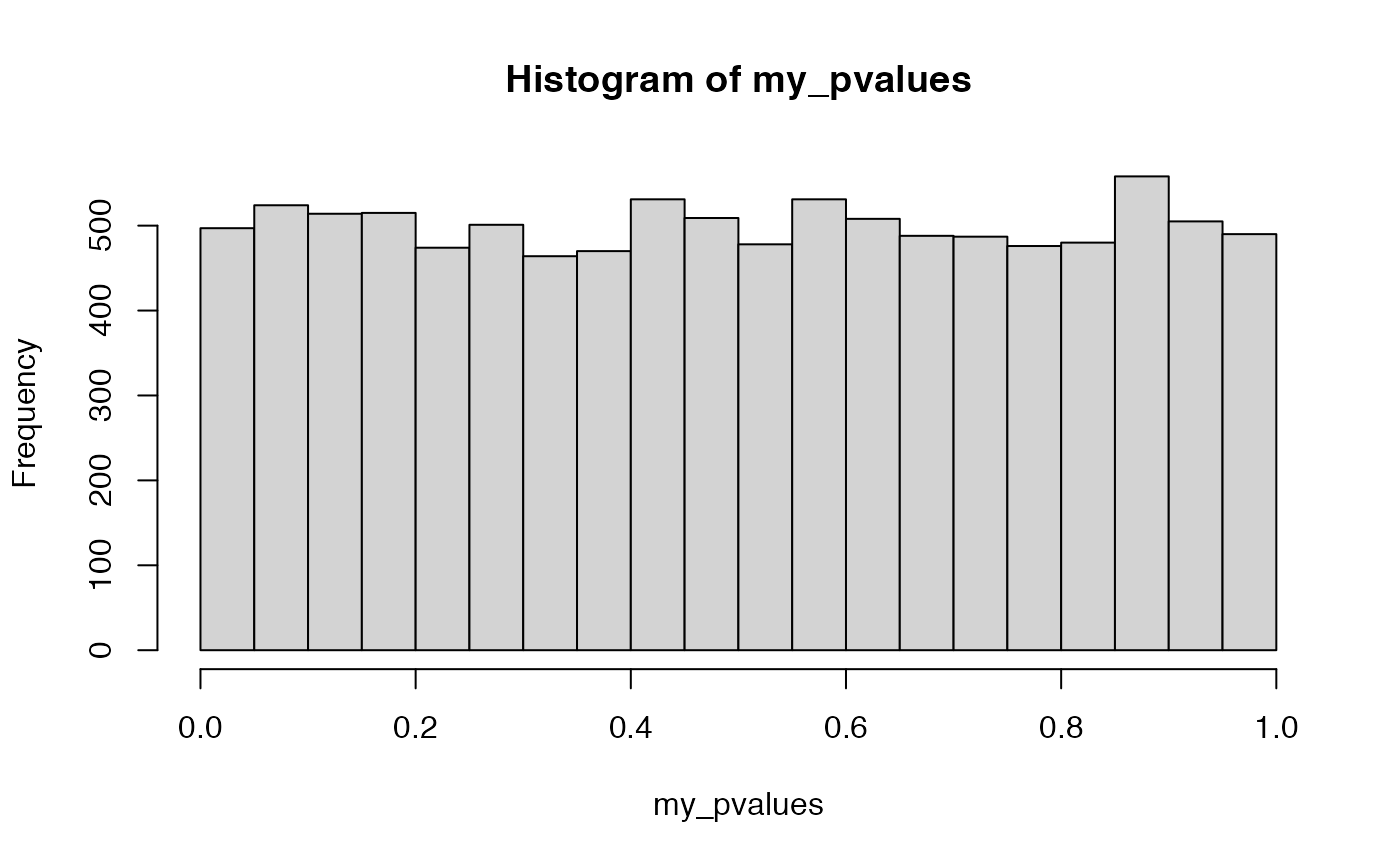
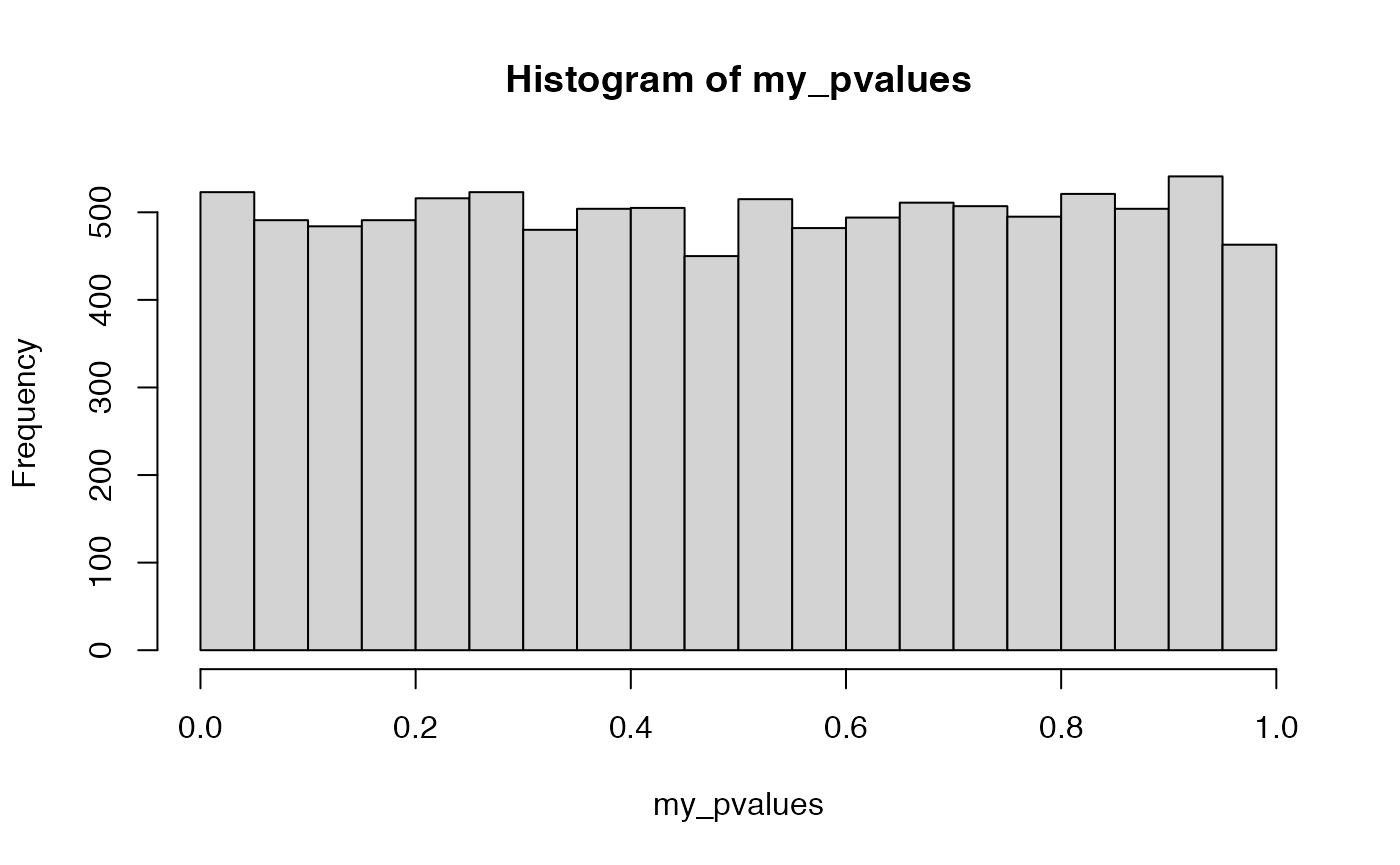
.

diff --git a/docs/articles/Lab5.html b/docs/articles/Lab5.html
@@ -44,7 +44,7 @@
     <a class="dropdown-item" href="../articles/Lab4.html">Lab4</a>
     <a class="dropdown-item" href="../articles/Lab5.html">Lab5</a>
     <a class="dropdown-item" href="../articles/Lab6.html">Lab6</a>
-    <a class="dropdown-item" href="../articles/Lab7.html">Lab7.Rmd</a>
+    <a class="dropdown-item" href="../articles/Lab7.html">Lab7</a>
     <a class="dropdown-item" href="../articles/Lab8.html">Lab8</a>
     <a class="dropdown-item" href="../articles/PkgdownTips/Rbasics.html">Rbasics</a>
   </div>
@@ -153,9 +153,9 @@
 <span class="va">aov.out</span> <span class="op">&lt;-</span> <span class="fu"><a href="https://rdrr.io/r/stats/aov.html" class="external-link">aov</a></span><span class="op">(</span><span class="va">DV</span> <span class="op">~</span> <span class="va">IV</span>, data <span class="op">=</span> <span class="va">alternative_data</span><span class="op">)</span>
 <span class="va">simulated_F</span> <span class="op">&lt;-</span> <span class="fu"><a href="https://rdrr.io/r/base/summary.html" class="external-link">summary</a></span><span class="op">(</span><span class="va">aov.out</span><span class="op">)</span><span class="op">[[</span><span class="fl">1</span><span class="op">]</span><span class="op">]</span><span class="op">$</span><span class="va">`F value`</span><span class="op">[</span><span class="fl">1</span><span class="op">]</span>
 <span class="fu"><a href="https://rdrr.io/r/base/summary.html" class="external-link">summary</a></span><span class="op">(</span><span class="va">aov.out</span><span class="op">)</span></code></pre></div>
-<pre><code><span class="co">##             Df Sum Sq Mean Sq F value Pr(&gt;F)  </span>
-<span class="co">## IV           3  5.206  1.7353   2.262 0.0979 .</span>
-<span class="co">## Residuals   36 27.623  0.7673                 </span>
+<pre><code><span class="co">##             Df Sum Sq Mean Sq F value  Pr(&gt;F)   </span>
+<span class="co">## IV           3  18.48   6.159   4.656 0.00752 **</span>
+<span class="co">## Residuals   36  47.62   1.323                   </span>
 <span class="co">## ---</span>
 <span class="co">## Signif. codes:  0 '***' 0.001 '**' 0.01 '*' 0.05 '.' 0.1 ' ' 1</span></code></pre>
 <div class="sourceCode" id="cb7"><pre class="downlit sourceCode r">
@@ -169,7 +169,7 @@
 <span class="co">## </span>
 <span class="co">## Parameter | Eta2 |       95% CI</span>
 <span class="co">## -------------------------------</span>
-<span class="co">## IV        | 0.16 | [0.00, 1.00]</span>
+<span class="co">## IV        | 0.28 | [0.06, 1.00]</span>
 <span class="co">## </span>
 <span class="co">## - One-sided CIs: upper bound fixed at (1).</span></code></pre>
 <div class="sourceCode" id="cb12"><pre class="downlit sourceCode r">
@@ -198,7 +198,7 @@
 <span class="op">}</span>
 
 <span class="fu">run_simulation</span><span class="op">(</span><span class="op">)</span></code></pre></div>
-<pre><code><span class="co">## [1] 0.2758478</span></code></pre>
+<pre><code><span class="co">## [1] 0.05271666</span></code></pre>
 <div class="sourceCode" id="cb14"><pre class="downlit sourceCode r">
 <code class="sourceCode R"><span class="fu"><a href="https://easystats.github.io/effectsize/reference/eta_squared.html" class="external-link">eta_squared</a></span><span class="op">(</span><span class="va">aov.out</span><span class="op">)</span></code></pre></div>
 <pre><code><span class="co">## For one-way between subjects designs, partial eta squared is equivalent to eta squared.</span>
@@ -207,7 +207,7 @@
 <span class="co">## </span>
 <span class="co">## Parameter | Eta2 |       95% CI</span>
 <span class="co">## -------------------------------</span>
-<span class="co">## IV        | 0.16 | [0.00, 1.00]</span>
+<span class="co">## IV        | 0.28 | [0.06, 1.00]</span>
 <span class="co">## </span>
 <span class="co">## - One-sided CIs: upper bound fixed at (1).</span></code></pre>
 <div class="sourceCode" id="cb17"><pre class="downlit sourceCode r">
@@ -218,7 +218,7 @@
 <span class="co">## </span>
 <span class="co">## Parameter | Eta2 |       95% CI</span>
 <span class="co">## -------------------------------</span>
-<span class="co">## IV        | 0.16 | [0.00, 1.00]</span>
+<span class="co">## IV        | 0.28 | [0.06, 1.00]</span>
 <span class="co">## </span>
 <span class="co">## - One-sided CIs: upper bound fixed at (1).</span></code></pre>
 <div class="sourceCode" id="cb20"><pre class="downlit sourceCode r">
@@ -233,26 +233,26 @@
 <pre><code><span class="co">##  [1] 1 1 1 1 1 1 1 1 1 1</span></code></pre>
 <div class="sourceCode" id="cb24"><pre class="downlit sourceCode r">
 <code class="sourceCode R"><span class="fu"><a href="https://rdrr.io/r/base/lapply.html" class="external-link">replicate</a></span><span class="op">(</span><span class="fl">100</span>,<span class="fu">run_simulation</span><span class="op">(</span><span class="op">)</span><span class="op">)</span></code></pre></div>
-<pre><code><span class="co">##   [1] 0.24421024 0.37504494 0.33093034 0.14465994 0.19326708 0.20301824</span>
-<span class="co">##   [7] 0.20165989 0.23649277 0.38466059 0.19420539 0.26749249 0.10792348</span>
-<span class="co">##  [13] 0.34917175 0.18519563 0.33429332 0.17311682 0.23978293 0.18998875</span>
-<span class="co">##  [19] 0.36008072 0.25745779 0.17964205 0.32560286 0.19730107 0.21232857</span>
-<span class="co">##  [25] 0.18895872 0.13473611 0.33337412 0.22364303 0.06674903 0.10360670</span>
-<span class="co">##  [31] 0.53840261 0.20911623 0.24521563 0.42434045 0.32280151 0.27422647</span>
-<span class="co">##  [37] 0.21525867 0.25117602 0.18354900 0.21537176 0.25300804 0.29680058</span>
-<span class="co">##  [43] 0.10710810 0.28430762 0.28955864 0.50875929 0.26802933 0.31142202</span>
-<span class="co">##  [49] 0.10038838 0.15006433 0.33585483 0.26928837 0.18303763 0.45763137</span>
-<span class="co">##  [55] 0.18495870 0.24927969 0.26795862 0.16399372 0.21920723 0.22325909</span>
-<span class="co">##  [61] 0.22294735 0.15628838 0.33192426 0.32979332 0.24912238 0.38169110</span>
-<span class="co">##  [67] 0.26974516 0.38402015 0.22523520 0.12377434 0.29382357 0.29909978</span>
-<span class="co">##  [73] 0.29890225 0.30661849 0.35174102 0.04587685 0.28098496 0.24277134</span>
-<span class="co">##  [79] 0.28505605 0.35877707 0.29983659 0.17828987 0.28356295 0.17949320</span>
-<span class="co">##  [85] 0.17585425 0.05342157 0.12969724 0.19667824 0.25933688 0.17864700</span>
-<span class="co">##  [91] 0.33276804 0.27346620 0.25586260 0.18869400 0.13662457 0.33320908</span>
-<span class="co">##  [97] 0.28612402 0.21389844 0.20165937 0.05747528</span></code></pre>
+<pre><code><span class="co">##   [1] 0.17015603 0.18773220 0.42726501 0.28093687 0.17674978 0.11391648</span>
+<span class="co">##   [7] 0.24767668 0.15635491 0.33984935 0.10204347 0.32634458 0.11724371</span>
+<span class="co">##  [13] 0.18757942 0.12116523 0.35575449 0.11884291 0.30676469 0.03286688</span>
+<span class="co">##  [19] 0.14088015 0.15465524 0.32315415 0.16696549 0.26117850 0.15665073</span>
+<span class="co">##  [25] 0.19336097 0.29915925 0.19402486 0.33436870 0.32678932 0.08000135</span>
+<span class="co">##  [31] 0.10524278 0.15445403 0.13535706 0.26031442 0.11042392 0.29899019</span>
+<span class="co">##  [37] 0.14255487 0.26555598 0.15557815 0.20843423 0.19187679 0.05988152</span>
+<span class="co">##  [43] 0.33895440 0.17000161 0.24149932 0.29729388 0.30159990 0.12031738</span>
+<span class="co">##  [49] 0.13094847 0.33734449 0.04374464 0.16570554 0.19230117 0.24596594</span>
+<span class="co">##  [55] 0.50644010 0.46552930 0.20249412 0.23671004 0.26549806 0.35940169</span>
+<span class="co">##  [61] 0.07975613 0.24285756 0.35599335 0.34683722 0.19572402 0.31575350</span>
+<span class="co">##  [67] 0.15064675 0.20722298 0.08625227 0.10971202 0.14889961 0.20926377</span>
+<span class="co">##  [73] 0.25109508 0.08490813 0.23005480 0.31071230 0.12698512 0.24685004</span>
+<span class="co">##  [79] 0.26963933 0.26275440 0.26381584 0.42804380 0.19947345 0.12889568</span>
+<span class="co">##  [85] 0.28490129 0.08163238 0.32372378 0.18757506 0.16542291 0.25132487</span>
+<span class="co">##  [91] 0.35296993 0.13690046 0.06227923 0.17160744 0.30663288 0.16235635</span>
+<span class="co">##  [97] 0.44836013 0.23112234 0.13162731 0.15877549</span></code></pre>
 <div class="sourceCode" id="cb26"><pre class="downlit sourceCode r">
 <code class="sourceCode R"><span class="fu"><a href="https://rdrr.io/r/base/mean.html" class="external-link">mean</a></span><span class="op">(</span><span class="fu"><a href="https://rdrr.io/r/base/lapply.html" class="external-link">replicate</a></span><span class="op">(</span><span class="fl">100</span>,<span class="fu">run_simulation</span><span class="op">(</span><span class="op">)</span><span class="op">)</span><span class="op">)</span></code></pre></div>
-<pre><code><span class="co">## [1] 0.2221745</span></code></pre>
+<pre><code><span class="co">## [1] 0.2525275</span></code></pre>
 <div class="sourceCode" id="cb28"><pre class="downlit sourceCode r">
 <code class="sourceCode R"><span class="va">run_simulation</span> <span class="op">&lt;-</span> <span class="kw">function</span><span class="op">(</span><span class="op">)</span><span class="op">{</span>
   
@@ -282,57 +282,57 @@
 <span class="op">}</span>
 
 <span class="fu">run_simulation</span><span class="op">(</span><span class="op">)</span></code></pre></div>
-<pre><code><span class="co">## [1] 0.02731811 0.22189349</span></code></pre>
+<pre><code><span class="co">## [1] 0.44075703 0.07124011</span></code></pre>
 <div class="sourceCode" id="cb30"><pre class="downlit sourceCode r">
 <code class="sourceCode R"><span class="fu"><a href="https://rdrr.io/r/base/lapply.html" class="external-link">replicate</a></span><span class="op">(</span><span class="fl">100</span>,<span class="fu">run_simulation</span><span class="op">(</span><span class="op">)</span><span class="op">)</span></code></pre></div>
-<pre><code><span class="co">##             [,1]       [,2]       [,3]       [,4]      [,5]       [,6]</span>
-<span class="co">## [1,] 0.002255739 0.01075468 0.71490525 0.42028015 0.1013850 0.40803104</span>
-<span class="co">## [2,] 0.328729282 0.26409798 0.03658537 0.07435897 0.1567316 0.07628004</span>
-<span class="co">##              [,7]       [,8]       [,9]      [,10]     [,11]      [,12]</span>
-<span class="co">## [1,] 0.0007865807 0.39598869 0.49785060 0.59648209 0.2381086 0.60126773</span>
-<span class="co">## [2,] 0.3686354379 0.07821229 0.06307308 0.05035971 0.1093502 0.04977742</span>
-<span class="co">##           [,13]      [,14]     [,15]     [,16]      [,17]      [,18]      [,19]</span>
-<span class="co">## [1,] 0.67162650 0.05070814 0.0291092 0.6059307 0.49042584 0.90166519 0.58968144</span>
-<span class="co">## [2,] 0.04148784 0.19210851 0.2189055 0.0492126 0.06409588 0.01568803 0.05119187</span>
-<span class="co">##           [,20]      [,21]      [,22]      [,23]     [,24]      [,25]</span>
-<span class="co">## [1,] 0.78583909 0.01164217 0.57417589 0.01175538 0.1162893 0.09519445</span>
-<span class="co">## [2,] 0.02872777 0.26062246 0.05311077 0.26019691 0.1494357 0.16004813</span>
-<span class="co">##           [,26]       [,27]      [,28]      [,29]      [,30]      [,31]</span>
-<span class="co">## [1,] 0.54158062 0.009414822 0.75205321 0.35541385 0.28097050 0.28173872</span>
-<span class="co">## [2,] 0.05725191 0.269885057 0.03245348 0.08508015 0.09952102 0.09935668</span>
-<span class="co">##          [,32]     [,33]     [,34]      [,35]     [,36]     [,37]      [,38]</span>
-<span class="co">## [1,] 0.0044232 0.2219641 0.0643448 0.35108655 0.2441430 0.1947463 0.49671701</span>
-<span class="co">## [2,] 0.3017196 0.1134454 0.1802073 0.08584869 0.1078802 0.1209677 0.06322854</span>
-<span class="co">##            [,39]      [,40]     [,41]     [,42]       [,43]      [,44]</span>
-<span class="co">## [1,] 0.973440345 0.28384999 0.8973075 0.2256055 0.970602536 0.40218306</span>
-<span class="co">## [2,] 0.006148941 0.09890696 0.0162037 0.1125000 0.006599514 0.07721281</span>
-<span class="co">##           [,45]      [,46]      [,47]      [,48]      [,49]      [,50]</span>
-<span class="co">## [1,] 0.79892844 0.08875477 0.03567142 0.63995802 0.70891013 0.04647115</span>
-<span class="co">## [2,] 0.02728636 0.16371038 0.20923521 0.04516129 0.03725782 0.19640565</span>
-<span class="co">##           [,51]     [,52]     [,53]      [,54]     [,55]     [,56]      [,57]</span>
-<span class="co">## [1,] 0.44798731 0.7633939 0.5994358 0.45506490 0.2535711 0.6213559 0.92189172</span>
-<span class="co">## [2,] 0.07016473 0.0312009 0.0500000 0.06912442 0.1056440 0.0473613 0.01323706</span>
-<span class="co">##           [,58]     [,59]      [,60]      [,61]      [,62]      [,63]</span>
-<span class="co">## [1,] 0.59011838 0.1875257 0.54101744 0.01705334 0.60335637 0.01918045</span>
-<span class="co">## [2,] 0.05113824 0.1231156 0.05732484 0.24360190 0.04952412 0.23826087</span>
-<span class="co">##           [,64]      [,65]      [,66]      [,67]      [,68]     [,69]</span>
-<span class="co">## [1,] 0.53532743 0.51989806 0.47487608 0.87943568 0.72758609 0.5020448</span>
-<span class="co">## [2,] 0.05806452 0.06009684 0.06627393 0.01828411 0.03516874 0.0625000</span>
-<span class="co">##           [,70]     [,71]      [,72]     [,73]      [,74]      [,75]     [,76]</span>
-<span class="co">## [1,] 0.31374196 0.1058185 0.35522329 0.1295616 0.45901901 0.37171024 0.3002973</span>
-<span class="co">## [2,] 0.09281961 0.1544662 0.08511384 0.1436100 0.06854839 0.08225108 0.0954955</span>
-<span class="co">##           [,77]      [,78]      [,79]     [,80]      [,81]      [,82]     [,83]</span>
-<span class="co">## [1,] 0.06843374 0.83440260 0.09247181 0.1268940 0.08833903 0.30144411 0.4357005</span>
-<span class="co">## [2,] 0.17708620 0.02336449 0.16156847 0.1447368 0.16395494 0.09526344 0.0720000</span>
-<span class="co">##           [,84]     [,85]     [,86]      [,87]     [,88]      [,89]      [,90]</span>
-<span class="co">## [1,] 0.00442394 0.2227599 0.3941432 0.59121590 0.1291553 0.44640720 0.39323345</span>
-<span class="co">## [2,] 0.30171278 0.1132376 0.0785124 0.05100362 0.1437803 0.07039864 0.07866075</span>
-<span class="co">##           [,91]      [,92]      [,93]      [,94]      [,95]      [,96]</span>
-<span class="co">## [1,] 0.04605745 0.50060007 0.44497328 0.67257285 0.35554218 0.42291247</span>
-<span class="co">## [2,] 0.19684418 0.06269702 0.07061144 0.04137931 0.08505747 0.07395172</span>
-<span class="co">##          [,97]      [,98]      [,99]    [,100]</span>
-<span class="co">## [1,] 0.1201842 0.74457286 0.31968500 0.1724629</span>
-<span class="co">## [2,] 0.1476671 0.03328149 0.09166667 0.1278383</span></code></pre>
+<pre><code><span class="co">##           [,1]      [,2]       [,3]       [,4]       [,5]      [,6]       [,7]</span>
+<span class="co">## [1,] 0.7506851 0.1020202 0.36310194 0.30925983 0.94556952 0.2660465 0.81485339</span>
+<span class="co">## [2,] 0.0326048 0.1564016 0.08373294 0.09370103 0.01019462 0.1027905 0.02553007</span>
+<span class="co">##           [,8]        [,9]      [,10]       [,11]     [,12]     [,13]</span>
+<span class="co">## [1,] 0.6863993 0.963412765 0.77670199 0.005057387 0.0443743 0.2174682</span>
+<span class="co">## [2,] 0.0398010 0.007692308 0.02973396 0.296195652 0.1986663 0.1146311</span>
+<span class="co">##           [,14]      [,15]      [,16]     [,17]      [,18]      [,19]</span>
+<span class="co">## [1,] 0.73742738 0.04380435 0.67006846 0.2397857 0.37851618 0.88991656</span>
+<span class="co">## [2,] 0.03407407 0.19929763 0.04166667 0.1089385 0.08109855 0.01707027</span>
+<span class="co">##           [,20]     [,21]     [,22]      [,23]     [,24]      [,25]       [,26]</span>
+<span class="co">## [1,] 0.51213034 0.1205986 0.2637618 0.65669095 0.3317457 0.02304386 0.957687221</span>
+<span class="co">## [2,] 0.06113537 0.1474820 0.1033046 0.04320988 0.0893796 0.22982496 0.008522727</span>
+<span class="co">##           [,27]      [,28]      [,29]      [,30]      [,31]      [,32]</span>
+<span class="co">## [1,] 0.03737794 0.43765093 0.30942566 0.03479965 0.57631752 0.83607206</span>
+<span class="co">## [2,] 0.20698925 0.07170611 0.09366824 0.21042084 0.05284389 0.02317881</span>
+<span class="co">##           [,33]      [,34]      [,35]      [,36]     [,37]      [,38]</span>
+<span class="co">## [1,] 0.06540646 0.51425509 0.77187310 0.72039453 0.2212016 0.63324043</span>
+<span class="co">## [2,] 0.17938001 0.06085024 0.03026597 0.03597122 0.1136450 0.04595186</span>
+<span class="co">##           [,39]      [,40]      [,41]      [,42]      [,43]      [,44]</span>
+<span class="co">## [1,] 0.51201346 0.04317814 0.31245859 0.44433000 0.67504691 0.08169726</span>
+<span class="co">## [2,] 0.06115108 0.20000000 0.09307093 0.07070707 0.04109589 0.16800955</span>
+<span class="co">##           [,45]     [,46]      [,47]     [,48]    [,49]     [,50]      [,51]</span>
+<span class="co">## [1,] 0.32468374 0.1662541 0.61178063 0.2430273 0.177564 0.1986342 0.46072328</span>
+<span class="co">## [2,] 0.09071038 0.1298905 0.04850746 0.1081497 0.126200 0.1198397 0.06830123</span>
+<span class="co">##          [,52]      [,53]      [,54]      [,55]      [,56]     [,57]      [,58]</span>
+<span class="co">## [1,] 0.1079685 0.59180292 0.72431922 0.02784204 0.03063215 0.1980776 0.63324043</span>
+<span class="co">## [2,] 0.1533981 0.05093168 0.03553299 0.22100122 0.21649485 0.1200000 0.04595186</span>
+<span class="co">##           [,59]      [,60]      [,61]     [,62]      [,63]        [,64]</span>
+<span class="co">## [1,] 0.66716298 0.80956647 0.64504372 0.8161358 0.34447036 1.000000e+00</span>
+<span class="co">## [2,] 0.04200064 0.02611367 0.04456557 0.0253884 0.08703853 1.455267e-31</span>
+<span class="co">##           [,65]      [,66]     [,67]      [,68]      [,69]      [,70]</span>
+<span class="co">## [1,] 0.76744905 0.03347455 0.1274691 0.71330478 0.41046812 0.58447228</span>
+<span class="co">## [2,] 0.03075363 0.21227621 0.1444921 0.03676471 0.07589435 0.05183312</span>
+<span class="co">##           [,71]      [,72]      [,73]      [,74]      [,75]     [,76]</span>
+<span class="co">## [1,] 0.47675867 0.07106454 0.04460514 0.53050364 0.64250612 0.8095145</span>
+<span class="co">## [2,] 0.06600756 0.17516630 0.19841270 0.05869565 0.04486252 0.0261194</span>
+<span class="co">##           [,77]      [,78]     [,79]      [,80]      [,81]      [,82]</span>
+<span class="co">## [1,] 0.03815156 0.95377099 0.1834935 0.92439348 0.83607206 0.41901710</span>
+<span class="co">## [2,] 0.20600188 0.00907441 0.1243464 0.01292597 0.02317881 0.07455507</span>
+<span class="co">##           [,83]     [,84]      [,85]      [,86]     [,87]      [,88]      [,89]</span>
+<span class="co">## [1,] 0.46655618 0.0291277 0.92542518 0.32363984 0.1463501 0.74718617 0.76037610</span>
+<span class="co">## [2,] 0.06746032 0.2188755 0.01279707 0.09090909 0.1369565 0.03299204 0.03153394</span>
+<span class="co">##          [,90]     [,91]      [,92]      [,93]       [,94]      [,95]    [,96]</span>
+<span class="co">## [1,] 0.1919464 0.2728262 0.04082861 0.40399257 0.008912696 0.64324393 0.774287</span>
+<span class="co">## [2,] 0.1217923 0.1012867 0.20272109 0.07692308 0.272252676 0.04477612 0.030000</span>
+<span class="co">##           [,97]     [,98]      [,99]      [,100]</span>
+<span class="co">## [1,] 0.09683544 0.2729912 0.07711431 0.996360022</span>
+<span class="co">## [2,] 0.15915056 0.1012505 0.17098446 0.001584786</span></code></pre>
   </main>
 </div>
 

diff --git a/docs/articles/Lab7.html b/docs/articles/Lab7.html
@@ -6,12 +6,12 @@
 <meta http-equiv="X-UA-Compatible" content="IE=edge">
 <meta name="viewport" content="width=device-width, initial-scale=1, shrink-to-fit=no">
 <meta name="description" content="psyc7709">
-<title>Lab7.Rmd • psyc7709</title>
+<title>Lab7 • psyc7709</title>
 <script src="../deps/jquery-3.6.0/jquery-3.6.0.min.js"></script><meta name="viewport" content="width=device-width, initial-scale=1, shrink-to-fit=no">
 <link href="../deps/bootstrap-5.1.0/bootstrap.min.css" rel="stylesheet">
 <script src="../deps/bootstrap-5.1.0/bootstrap.bundle.min.js"></script><!-- Font Awesome icons --><link rel="stylesheet" href="https://cdnjs.cloudflare.com/ajax/libs/font-awesome/5.12.1/css/all.min.css" integrity="sha256-mmgLkCYLUQbXn0B1SRqzHar6dCnv9oZFPEC1g1cwlkk=" crossorigin="anonymous">
 <link rel="stylesheet" href="https://cdnjs.cloudflare.com/ajax/libs/font-awesome/5.12.1/css/v4-shims.min.css" integrity="sha256-wZjR52fzng1pJHwx4aV2AO3yyTOXrcDW7jBpJtTwVxw=" crossorigin="anonymous">
-<!-- bootstrap-toc --><script src="https://cdn.rawgit.com/afeld/bootstrap-toc/v1.0.1/dist/bootstrap-toc.min.js"></script><!-- headroom.js --><script src="https://cdnjs.cloudflare.com/ajax/libs/headroom/0.11.0/headroom.min.js" integrity="sha256-AsUX4SJE1+yuDu5+mAVzJbuYNPHj/WroHuZ8Ir/CkE0=" crossorigin="anonymous"></script><script src="https://cdnjs.cloudflare.com/ajax/libs/headroom/0.11.0/jQuery.headroom.min.js" integrity="sha256-ZX/yNShbjqsohH1k95liqY9Gd8uOiE1S4vZc+9KQ1K4=" crossorigin="anonymous"></script><!-- clipboard.js --><script src="https://cdnjs.cloudflare.com/ajax/libs/clipboard.js/2.0.6/clipboard.min.js" integrity="sha256-inc5kl9MA1hkeYUt+EC3BhlIgyp/2jDIyBLS6k3UxPI=" crossorigin="anonymous"></script><!-- search --><script src="https://cdnjs.cloudflare.com/ajax/libs/fuse.js/6.4.6/fuse.js" integrity="sha512-zv6Ywkjyktsohkbp9bb45V6tEMoWhzFzXis+LrMehmJZZSys19Yxf1dopHx7WzIKxr5tK2dVcYmaCk2uqdjF4A==" crossorigin="anonymous"></script><script src="https://cdnjs.cloudflare.com/ajax/libs/autocomplete.js/0.38.0/autocomplete.jquery.min.js" integrity="sha512-GU9ayf+66Xx2TmpxqJpliWbT5PiGYxpaG8rfnBEk1LL8l1KGkRShhngwdXK1UgqhAzWpZHSiYPc09/NwDQIGyg==" crossorigin="anonymous"></script><script src="https://cdnjs.cloudflare.com/ajax/libs/mark.js/8.11.1/mark.min.js" integrity="sha512-5CYOlHXGh6QpOFA/TeTylKLWfB3ftPsde7AnmhuitiTX4K5SqCLBeKro6sPS8ilsz1Q4NRx3v8Ko2IBiszzdww==" crossorigin="anonymous"></script><!-- pkgdown --><script src="../pkgdown.js"></script><meta property="og:title" content="Lab7.Rmd">
+<!-- bootstrap-toc --><script src="https://cdn.rawgit.com/afeld/bootstrap-toc/v1.0.1/dist/bootstrap-toc.min.js"></script><!-- headroom.js --><script src="https://cdnjs.cloudflare.com/ajax/libs/headroom/0.11.0/headroom.min.js" integrity="sha256-AsUX4SJE1+yuDu5+mAVzJbuYNPHj/WroHuZ8Ir/CkE0=" crossorigin="anonymous"></script><script src="https://cdnjs.cloudflare.com/ajax/libs/headroom/0.11.0/jQuery.headroom.min.js" integrity="sha256-ZX/yNShbjqsohH1k95liqY9Gd8uOiE1S4vZc+9KQ1K4=" crossorigin="anonymous"></script><!-- clipboard.js --><script src="https://cdnjs.cloudflare.com/ajax/libs/clipboard.js/2.0.6/clipboard.min.js" integrity="sha256-inc5kl9MA1hkeYUt+EC3BhlIgyp/2jDIyBLS6k3UxPI=" crossorigin="anonymous"></script><!-- search --><script src="https://cdnjs.cloudflare.com/ajax/libs/fuse.js/6.4.6/fuse.js" integrity="sha512-zv6Ywkjyktsohkbp9bb45V6tEMoWhzFzXis+LrMehmJZZSys19Yxf1dopHx7WzIKxr5tK2dVcYmaCk2uqdjF4A==" crossorigin="anonymous"></script><script src="https://cdnjs.cloudflare.com/ajax/libs/autocomplete.js/0.38.0/autocomplete.jquery.min.js" integrity="sha512-GU9ayf+66Xx2TmpxqJpliWbT5PiGYxpaG8rfnBEk1LL8l1KGkRShhngwdXK1UgqhAzWpZHSiYPc09/NwDQIGyg==" crossorigin="anonymous"></script><script src="https://cdnjs.cloudflare.com/ajax/libs/mark.js/8.11.1/mark.min.js" integrity="sha512-5CYOlHXGh6QpOFA/TeTylKLWfB3ftPsde7AnmhuitiTX4K5SqCLBeKro6sPS8ilsz1Q4NRx3v8Ko2IBiszzdww==" crossorigin="anonymous"></script><!-- pkgdown --><script src="../pkgdown.js"></script><meta property="og:title" content="Lab7">
 <meta property="og:description" content="psyc7709">
 <!-- mathjax --><script src="https://cdnjs.cloudflare.com/ajax/libs/mathjax/2.7.5/MathJax.js" integrity="sha256-nvJJv9wWKEm88qvoQl9ekL2J+k/RWIsaSScxxlsrv8k=" crossorigin="anonymous"></script><script src="https://cdnjs.cloudflare.com/ajax/libs/mathjax/2.7.5/config/TeX-AMS-MML_HTMLorMML.js" integrity="sha256-84DKXVJXs0/F8OTMzX4UR909+jtl4G7SPypPavF+GfA=" crossorigin="anonymous"></script><!--[if lt IE 9]>
 <script src="https://oss.maxcdn.com/html5shiv/3.7.3/html5shiv.min.js"></script>
@@ -44,7 +44,7 @@
     <a class="dropdown-item" href="../articles/Lab4.html">Lab4</a>
     <a class="dropdown-item" href="../articles/Lab5.html">Lab5</a>
     <a class="dropdown-item" href="../articles/Lab6.html">Lab6</a>
-    <a class="dropdown-item" href="../articles/Lab7.html">Lab7.Rmd</a>
+    <a class="dropdown-item" href="../articles/Lab7.html">Lab7</a>
     <a class="dropdown-item" href="../articles/Lab8.html">Lab8</a>
     <a class="dropdown-item" href="../articles/PkgdownTips/Rbasics.html">Rbasics</a>
   </div>
@@ -83,7 +83,7 @@
 
 <div class="row">
   <main id="main"><div class="page-header">
-      <img src="" class="logo" alt=""><h1>Lab7.Rmd</h1>
+      <img src="" class="logo" alt=""><h1>Lab7</h1>
                         <h4 data-toc-skip class="author">Natalie Palmer</h4>
             
             <h4 data-toc-skip class="date">3/28/2022</h4>
@@ -222,7 +222,7 @@
 <div class="sourceCode" id="cb12"><pre class="downlit sourceCode r">
 <code class="sourceCode R"><span class="va">sims</span> <span class="op">&lt;-</span> <span class="fu"><a href="https://rdrr.io/r/stats/Binomial.html" class="external-link">rbinom</a></span><span class="op">(</span><span class="fl">10000</span>,<span class="fl">7</span>,<span class="fl">.05</span><span class="op">)</span>
 <span class="fu"><a href="https://rdrr.io/r/base/length.html" class="external-link">length</a></span><span class="op">(</span><span class="va">sims</span> <span class="op">[</span><span class="va">sims</span> <span class="op">&gt;</span> <span class="fl">0</span> <span class="op">]</span><span class="op">)</span><span class="op">/</span><span class="fl">10000</span></code></pre></div>
-<pre><code><span class="co">## [1] 0.2959</span></code></pre>
+<pre><code><span class="co">## [1] 0.3002</span></code></pre>
 <div class="sourceCode" id="cb14"><pre class="downlit sourceCode r">
 <code class="sourceCode R"><span class="va">n</span> <span class="op">&lt;-</span> <span class="fl">12</span>
 <span class="va">factorial_data</span> <span class="op">&lt;-</span> <span class="fu"><a href="https://rdrr.io/pkg/tibble/man/tibble.html" class="external-link">tibble</a></span><span class="op">(</span>A <span class="op">=</span> <span class="fu"><a href="https://rdrr.io/r/base/factor.html" class="external-link">factor</a></span><span class="op">(</span><span class="fu"><a href="https://rdrr.io/r/base/rep.html" class="external-link">rep</a></span><span class="op">(</span><span class="fu"><a href="https://rdrr.io/r/base/c.html" class="external-link">c</a></span><span class="op">(</span><span class="st">"L1"</span>,<span class="st">"L2"</span><span class="op">)</span>, each <span class="op">=</span> <span class="va">n</span><span class="op">)</span><span class="op">)</span>,
@@ -232,14 +232,14 @@
 
 <span class="fu"><a href="https://rdrr.io/r/base/summary.html" class="external-link">summary</a></span><span class="op">(</span><span class="fu"><a href="https://rdrr.io/r/stats/aov.html" class="external-link">aov</a></span><span class="op">(</span><span class="va">DV</span> <span class="op">~</span> <span class="va">A</span><span class="op">*</span><span class="va">B</span><span class="op">*</span><span class="va">C</span>, data <span class="op">=</span> <span class="va">factorial_data</span><span class="op">)</span><span class="op">)</span></code></pre></div>
 <pre><code><span class="co">##             Df Sum Sq Mean Sq F value Pr(&gt;F)</span>
-<span class="co">## A            1  0.043  0.0431   0.052  0.822</span>
-<span class="co">## B            1  0.001  0.0012   0.001  0.970</span>
-<span class="co">## C            1  0.174  0.1738   0.211  0.652</span>
-<span class="co">## A:B          1  0.302  0.3019   0.366  0.553</span>
-<span class="co">## A:C          1  0.236  0.2365   0.287  0.599</span>
-<span class="co">## B:C          1  0.329  0.3290   0.399  0.536</span>
-<span class="co">## A:B:C        1  0.283  0.2828   0.343  0.566</span>
-<span class="co">## Residuals   16 13.181  0.8238</span></code></pre>
+<span class="co">## A            1  0.001  0.0012   0.001  0.973</span>
+<span class="co">## B            1  0.158  0.1579   0.154  0.700</span>
+<span class="co">## C            1  0.326  0.3261   0.319  0.580</span>
+<span class="co">## A:B          1  1.042  1.0418   1.018  0.328</span>
+<span class="co">## A:C          1  0.253  0.2532   0.247  0.626</span>
+<span class="co">## B:C          1  0.407  0.4071   0.398  0.537</span>
+<span class="co">## A:B:C        1  0.044  0.0439   0.043  0.838</span>
+<span class="co">## Residuals   16 16.371  1.0232</span></code></pre>
 <div class="sourceCode" id="cb16"><pre class="downlit sourceCode r">
 <code class="sourceCode R"><span class="co"># set up tibble to save simulation values</span>
 <span class="va">save_sim</span> <span class="op">&lt;-</span> <span class="fu"><a href="https://rdrr.io/pkg/tibble/man/tibble.html" class="external-link">tibble</a></span><span class="op">(</span><span class="op">)</span>
@@ -272,7 +272,7 @@
   <span class="fu"><a href="https://rdrr.io/pkg/dplyr/man/count.html" class="external-link">count</a></span><span class="op">(</span><span class="op">)</span>
 
 <span class="fu"><a href="https://rdrr.io/r/base/dim.html" class="external-link">dim</a></span><span class="op">(</span><span class="va">type_I_errors</span><span class="op">)</span><span class="op">[</span><span class="fl">1</span><span class="op">]</span><span class="op">/</span><span class="fl">1000</span></code></pre></div>
-<pre><code><span class="co">## [1] 0.294</span></code></pre>
+<pre><code><span class="co">## [1] 0.275</span></code></pre>
   </main>
 </div>
 

diff --git a/docs/articles/Lab6.html b/docs/articles/Lab6.html
@@ -44,7 +44,7 @@
     <a class="dropdown-item" href="../articles/Lab4.html">Lab4</a>
     <a class="dropdown-item" href="../articles/Lab5.html">Lab5</a>
     <a class="dropdown-item" href="../articles/Lab6.html">Lab6</a>
-    <a class="dropdown-item" href="../articles/Lab7.html">Lab7.Rmd</a>
+    <a class="dropdown-item" href="../articles/Lab7.html">Lab7</a>
     <a class="dropdown-item" href="../articles/Lab8.html">Lab8</a>
     <a class="dropdown-item" href="../articles/PkgdownTips/Rbasics.html">Rbasics</a>
   </div>
@@ -120,24 +120,24 @@
 <p><img src="Lab6_files/figure-html/unnamed-chunk-1-1.png" width="700"></p>
 <div class="sourceCode" id="cb6"><pre class="downlit sourceCode r">
 <code class="sourceCode R"><span class="fu"><a href="https://rdrr.io/r/base/length.html" class="external-link">length</a></span><span class="op">(</span><span class="va">A</span><span class="op">[</span><span class="va">A</span> <span class="op">&gt;</span> <span class="fl">0</span><span class="op">]</span><span class="op">)</span><span class="op">/</span><span class="fl">10000</span></code></pre></div>
-<pre><code><span class="co">## [1] 0.6478</span></code></pre>
+<pre><code><span class="co">## [1] 0.6433</span></code></pre>
 <div class="sourceCode" id="cb8"><pre class="downlit sourceCode r">
 <code class="sourceCode R"><span class="va">B</span> <span class="op">&lt;-</span> <span class="fu"><a href="https://rdrr.io/r/base/lapply.html" class="external-link">replicate</a></span><span class="op">(</span><span class="fl">10000</span>,<span class="fu"><a href="https://rdrr.io/r/base/sum.html" class="external-link">sum</a></span><span class="op">(</span><span class="fu"><a href="https://rdrr.io/r/stats/Binomial.html" class="external-link">rbinom</a></span><span class="op">(</span><span class="fl">50</span>,<span class="fl">1</span>,<span class="fl">.05</span><span class="op">)</span><span class="op">)</span><span class="op">)</span>
 <span class="fu"><a href="https://rdrr.io/r/graphics/hist.html" class="external-link">hist</a></span><span class="op">(</span><span class="va">B</span><span class="op">)</span></code></pre></div>
 <p><img src="Lab6_files/figure-html/unnamed-chunk-1-2.png" width="700"></p>
 <div class="sourceCode" id="cb9"><pre class="downlit sourceCode r">
 <code class="sourceCode R"><span class="fu"><a href="https://rdrr.io/r/base/length.html" class="external-link">length</a></span><span class="op">(</span><span class="va">B</span><span class="op">[</span><span class="va">B</span> <span class="op">&gt;</span> <span class="fl">0</span><span class="op">]</span><span class="op">)</span><span class="op">/</span><span class="fl">10000</span></code></pre></div>
-<pre><code><span class="co">## [1] 0.9276</span></code></pre>
+<pre><code><span class="co">## [1] 0.9211</span></code></pre>
 <div class="sourceCode" id="cb11"><pre class="downlit sourceCode r">
 <code class="sourceCode R"><span class="fl">4</span><span class="op">-</span><span class="fl">3</span></code></pre></div>
 <pre><code><span class="co">## [1] 1</span></code></pre>
 <div class="sourceCode" id="cb13"><pre class="downlit sourceCode r">
 <code class="sourceCode R"><span class="fu"><a href="https://rdrr.io/r/stats/Binomial.html" class="external-link">rbinom</a></span><span class="op">(</span><span class="fl">20</span>,<span class="fl">3</span>,<span class="fl">.05</span><span class="op">)</span></code></pre></div>
-<pre><code><span class="co">##  [1] 0 0 0 0 0 0 1 0 0 0 1 1 0 1 0 0 0 0 0 0</span></code></pre>
+<pre><code><span class="co">##  [1] 0 1 0 0 0 0 1 0 0 0 1 0 0 0 0 0 0 0 0 0</span></code></pre>
 <div class="sourceCode" id="cb15"><pre class="downlit sourceCode r">
 <code class="sourceCode R"><span class="va">D</span> <span class="op">&lt;-</span> <span class="fu"><a href="https://rdrr.io/r/base/lapply.html" class="external-link">replicate</a></span><span class="op">(</span><span class="fl">10000</span>,<span class="fu"><a href="https://rdrr.io/r/base/sum.html" class="external-link">sum</a></span><span class="op">(</span><span class="fu"><a href="https://rdrr.io/r/stats/Binomial.html" class="external-link">rbinom</a></span><span class="op">(</span><span class="fl">20</span>,<span class="fl">3</span>,<span class="fl">.05</span><span class="op">)</span><span class="op">)</span><span class="op">)</span>
 <span class="fu"><a href="https://rdrr.io/r/base/length.html" class="external-link">length</a></span><span class="op">(</span><span class="va">D</span><span class="op">[</span><span class="va">D</span> <span class="op">&gt;</span> <span class="fl">0</span><span class="op">]</span><span class="op">)</span><span class="op">/</span><span class="fl">10000</span></code></pre></div>
-<pre><code><span class="co">## [1] 0.954</span></code></pre>
+<pre><code><span class="co">## [1] 0.9525</span></code></pre>
 <div class="sourceCode" id="cb17"><pre class="downlit sourceCode r">
 <code class="sourceCode R"><span class="fu"><a href="https://rdrr.io/r/graphics/hist.html" class="external-link">hist</a></span><span class="op">(</span><span class="va">D</span><span class="op">)</span></code></pre></div>
 <p><img src="Lab6_files/figure-html/unnamed-chunk-1-3.png" width="700"></p>
@@ -223,10 +223,10 @@
 <span class="op">}</span>
 
 <span class="fu"><a href="https://rdrr.io/r/base/length.html" class="external-link">length</a></span><span class="op">(</span><span class="va">omnibus_pvalues</span><span class="op">[</span><span class="va">omnibus_pvalues</span> <span class="op">&lt;</span> <span class="fl">.05</span><span class="op">]</span><span class="op">)</span><span class="op">/</span><span class="fl">1000</span></code></pre></div>
-<pre><code><span class="co">## [1] 0.005</span></code></pre>
+<pre><code><span class="co">## [1] 0.001</span></code></pre>
 <div class="sourceCode" id="cb23"><pre class="downlit sourceCode r">
 <code class="sourceCode R"><span class="fu"><a href="https://rdrr.io/r/base/length.html" class="external-link">length</a></span><span class="op">(</span><span class="va">contrast_pvalues</span><span class="op">[</span><span class="va">contrast_pvalues</span> <span class="op">&lt;</span> <span class="fl">.05</span><span class="op">]</span><span class="op">)</span><span class="op">/</span><span class="fl">1000</span></code></pre></div>
-<pre><code><span class="co">## [1] 0.006</span></code></pre>
+<pre><code><span class="co">## [1] 0.001</span></code></pre>
   </main>
 </div>
 
